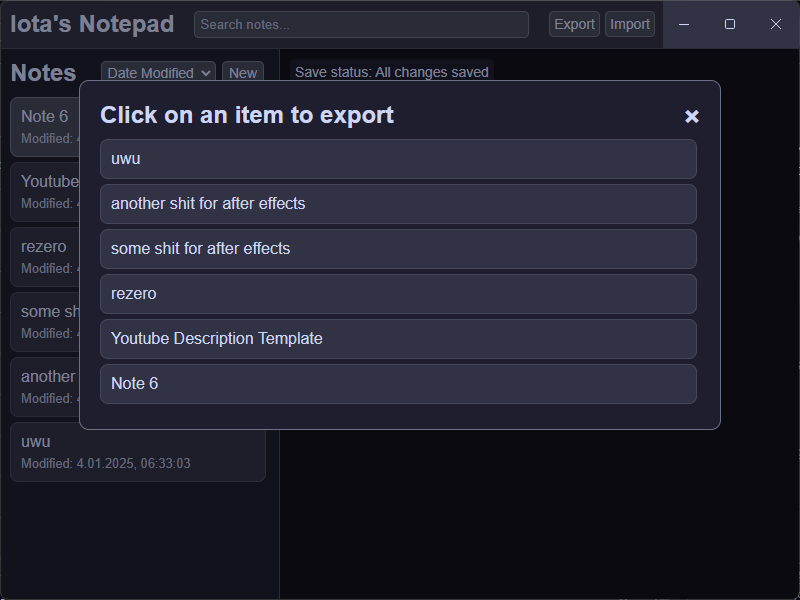
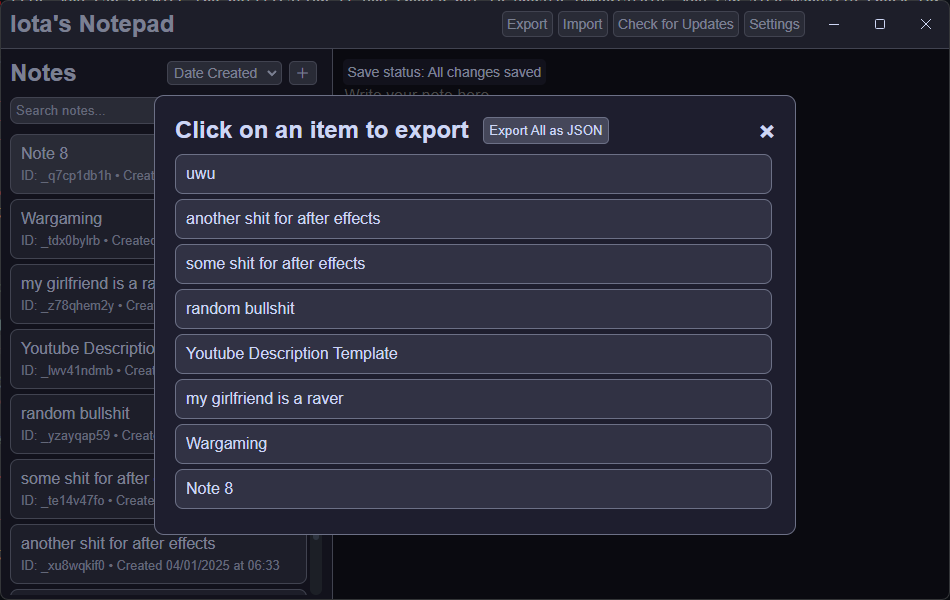
Implement context menu for note actions and update README for button changes

diff --git a/src/script.js b/src/script.js
@@ -58,6 +58,13 @@ document.addEventListener("DOMContentLoaded", () => {
     displayReleases();
     loadSettings();
     applyThemeFlavor(); // Apply the saved theme flavor on startup
+
+    document.addEventListener('click', (event) => {
+        const contextMenu = document.getElementById('noteContextMenu');
+        if (contextMenu.style.display === 'block' && !contextMenu.contains(event.target)) {
+            contextMenu.style.display = 'none';
+        }
+    });
 });
 
 function openSettingsModal() {
@@ -186,10 +193,12 @@ function addNote() {
     noteList.appendChild(createNoteElement(newNote, notes.length - 1));
 }
 
-function deleteNoteById(id) {
-    let notes = JSON.parse(localStorage.getItem("notes")) || [];
-    notes = notes.filter(note => note.id !== id);
-    localStorage.setItem("notes", JSON.stringify(notes));
+function deleteNoteById() {
+    const noteId = document.getElementById('noteContextMenu').dataset.noteId;
+    //const note = notes.find(note => note.id === noteId);
+    let notes = getNotesFromLocalStorage();
+    notes = notes.filter(note => note.id !== noteId);
+    saveNotesToLocalStorage(notes);
     loadNotes(); // Reload UI
 }
 
@@ -362,6 +371,7 @@ function createNoteElement(note, index, sortOption) {
     li.className = "note-item";
     li.dataset.id = note.id;
     li.onclick = () => selectNoteById(note.id);
+    li.oncontextmenu = (e) => openContextMenu(e, note.id);
 
     const title = document.createElement("span");
     title.className = "note-title";
@@ -372,66 +382,61 @@ function createNoteElement(note, index, sortOption) {
 
     switch (sortOption) {
         case 'index':
-            date.textContent = `Index ${index + 1}`;
+            date.textContent = `ID: ${note.id} • Index ${index + 1}`;
             break;
         case 'dateCreated':
-            date.textContent = `Created ${formatDate(note.dateCreated, true)}`;
+            date.textContent = `ID: ${note.id} • Created ${formatDate(note.dateCreated, true)}`;
             break;
         case 'dateModified':
-            date.textContent = `Modified ${formatDate(note.dateModified)}`;
+            date.textContent = `ID: ${note.id} • Modified ${formatDate(note.dateModified)}`;
             break;
         case 'alphabetical':
-            date.textContent = `Modified ${formatDate(note.dateModified)}`;
+            date.textContent = `ID: ${note.id} • Modified ${formatDate(note.dateModified)}`;
             break;
         default:
-            date.textContent = `Created ${formatDate(note.dateCreated, true)}`;
+            date.textContent = `ID: ${note.id} • Created ${formatDate(note.dateCreated, true)}`;
             break;
     }
 
-
-    const actions = document.createElement("div");
-    actions.className = "note-actions";
-
-    const saveButton = document.createElement("button");
-    saveButton.innerHTML = '<i class="bi bi-floppy-fill"></i>';
-    saveButton.className = "note-button";
-    saveButton.title = "Save note";
-    saveButton.onclick = (e) => {
-        e.stopPropagation();
-        saveNote();
-    };
-
-    const editButton = document.createElement("button");
-    editButton.innerHTML = '<i class="bi bi-pencil-fill"></i>';
-    editButton.className = "note-button";
-    editButton.title = "Edit title";
-    editButton.onclick = (e) => {
-        e.stopPropagation();
-        editNoteTitle(note);
-    };
-
-    const deleteButton = document.createElement("button");
-    deleteButton.innerHTML = '<i class="bi bi-trash-fill"></i>';
-    deleteButton.className = "note-button";
-    deleteButton.title = "Delete note";
-    deleteButton.onclick = (e) => {
-        e.stopPropagation();
-        deleteNoteById(note.id);
-    };
-
-    actions.appendChild(saveButton);
-    actions.appendChild(editButton);
-    actions.appendChild(deleteButton);
     li.appendChild(title);
     li.appendChild(date);
-    li.appendChild(actions);
 
     return li;
 }
 
-function editNoteTitle(note) {
+function openContextMenu(event, noteId) {
+    event.preventDefault();
+    const contextMenu = document.getElementById('noteContextMenu');
+    const { clientX: mouseX, clientY: mouseY } = event;
+    const { innerWidth: windowWidth, innerHeight: windowHeight } = window;
+    const { offsetWidth: menuWidth, offsetHeight: menuHeight } = contextMenu;
+
+    let top = mouseY;
+    let left = mouseX;
+
+    if (mouseX + menuWidth > windowWidth) {
+        left = windowWidth - menuWidth;
+    }
+
+    if (mouseY + menuHeight > windowHeight) {
+        top = windowHeight - menuHeight;
+    }
+
+    // Set the note ID for context menu actions
+    contextMenu.dataset.noteId = noteId;
+    document.getElementById('contextMenuNoteId').innerText = `Note ID: ${noteId}`;
+
+    // Show the context menu
+    contextMenu.style.display = 'block';
+    contextMenu.style.left = `${left}px`;
+    contextMenu.style.top = `${top}px`;
+}
+
+function editNoteTitle() {
+    const noteId = document.getElementById('noteContextMenu').dataset.noteId;
     const notes = JSON.parse(localStorage.getItem("notes")) || [];
     const noteList = document.querySelector(".note-list");
+    const note = notes.find(note => note.id === noteId);
     const noteItem = Array.from(noteList.children).find(item => item.querySelector(".note-title").textContent === note.title);
 
     // Replace the title with an input field for editing

diff --git a/src/globals.css b/src/globals.css
@@ -39,7 +39,7 @@
 
     --search-bar-padding: 5px;
     --search-bar-margin-right: 5px;
-    --search-bar-margin-bottom: 5px;
+    --search-bar-margin-bottom: 10px;
     --search-bar-border-radius: 8px;
     --search-bar-border: 1px solid var(--color-border);
     --search-bar-bg-color: var(--color-bg-light);
@@ -263,6 +263,7 @@ body {
     margin-bottom: var(--search-bar-margin-bottom);
     width: calc(100% - 0.3 * var(--sidebar-padding));
     box-sizing: border-box;
+    margin-bottom: var(--search-bar-margin-bottom);
 }
 
 
@@ -325,7 +326,7 @@ body {
     list-style-type: none;
     padding: var(--note-list-padding);
     margin: 0;
-    height: calc(100% - 65px);
+    height: calc(100% - 70px);
     overflow-y: auto;
 }
 
@@ -397,19 +398,6 @@ body {
 }
 
 .button:hover {
-    background-color: var(--button-bg-color-hover);
-}
-
-.note-actions .note-button {
-    margin-right: var(--note-actions-button-margin-right);
-    background-color: var(--button-bg-color);
-    color: var(--button-color);
-    border-radius: var(--button-border-radius);
-    border: 1px solid var(--button-border-color);
-    transition: var(--hover-transition);
-}
-
-.note-button:hover {
     background-color: var(--button-bg-color-hover);
 }
 
@@ -504,6 +492,7 @@ body {
     max-height: 80vh;
     overflow: hidden;
 }
+
 .modal .button {
     background-color: var(--button-bg-color);
     color: var(--button-color);
@@ -515,15 +504,18 @@ body {
     margin-right: 150px;
     margin-bottom: 10px;
 }
+
 .modal-content label,
 .modal-content select {
     display: block;
     width: 100%;
     margin-bottom: 10px;
 }
+
 .button:hover {
     background-color: var(--button-bg-color-hover);
 }
+
 .modal-h2{
     margin: 0px 0px 10px 0px;
 }
@@ -583,9 +575,11 @@ body {
     box-shadow: var(--updater-box-shadow);
     z-index: var(--updater-z-index);
 }
+
 #notification #message {
     margin: 0;
 }
+
 #download-link {
     display: block;
     margin-top: var(--updater-margin-top);
@@ -619,4 +613,45 @@ body {
 
 .settings-buttons{
     margin-top: 10px;
+}
+
+.context-menu {
+    display: none;
+    position: absolute;
+    background-color: var(--color-bg-medium);
+    border: 1px solid var(--color-border);
+    border-radius: 5px;
+    z-index: 1000;
+    box-shadow: 0 2px 10px rgba(0, 0, 0, 0.2);
+}
+
+.context-menu ul {
+    list-style: none;
+    padding: 0;
+    margin: 0;
+}
+
+.context-menu li {
+    padding: 8px;
+    cursor: pointer;
+    color: var(--color-text);
+}
+
+.context-menu li:hover {
+    background-color: var(--color-hover);
+}
+
+.context-menu-divider{
+    border: 0;
+    margin: 0;
+    height: 1px;
+    background-color: var(--color-border);
+}
+
+#contextMenuNoteId{
+    padding: 0;
+    margin: 5px;
+    font-size: var(--note-date-font-size);
+    color: var(--note-date-color);
+    margin-top: var(--note-date-margin-top);
 }

diff --git a/index.html b/index.html
@@ -29,7 +29,7 @@
                         <option value="alphabetical">Alphabetical</option>
                         <option value="index">Index</option>
                     </select>
-                    <button class="button" onclick="addNote()">New</button>
+                    <button class="button" onclick="addNote()"><i class="bi bi-plus-lg"></i></button>
                 </div>
             </div>
             <input type="text" class="search-bar" placeholder="Search notes..." oninput="searchNotes(this.value)">
@@ -77,6 +77,15 @@
                 <button class="button" onclick="saveSettings()">Save settings</button>
             </div>
         </div>
+    </div>
+    <div id="noteContextMenu" class="context-menu">
+        <p id="contextMenuNoteId"></p>
+        <hr class="context-menu-divider">
+        <ul>
+            <li onclick="saveNote()"><i class="bi bi-floppy-fill"></i> Save</li>
+            <li onclick="editNoteTitle()"><i class="bi bi-pencil-fill"></i> Edit Title</li>
+            <li onclick="deleteNoteById()"><i class="bi bi-trash-fill"></i> Delete</li>
+        </ul>
     </div>
     <script src="src/script.js"></script>
 </body>

diff --git a/README.md b/README.md
@@ -33,13 +33,13 @@ Iota's Notepad automatically checks for updates when the application starts. If 
 
 ## Usage
 
-- Click the "New" button to create a new note.
+- Click the "+" button to create a new note.
 - Click on a note in the sidebar to edit it.
 - Click the "Export" or "Import" to export/import notes.
     - "Export" button opens a modal and from there you can choose which note to export.
     - Inside the export modal there is a button "Export All as JSON", which will export all notes in a JSON format.
 - Type in the search bar to search notes.
-- Use the buttons next to each note to edit the title, delete the note, or save the note.
+- Right-click on a note to open the context menu, where you can edit the title, delete the note, or save the note.
 - Notes are saved automatically after 10 seconds of inactivity or when you press `Ctrl+S` (or `Cmd+S` on macOS).
 - Sort notes using the dropdown menu in the sidebar by date created, date modified, alphabetical order, or index.
 
